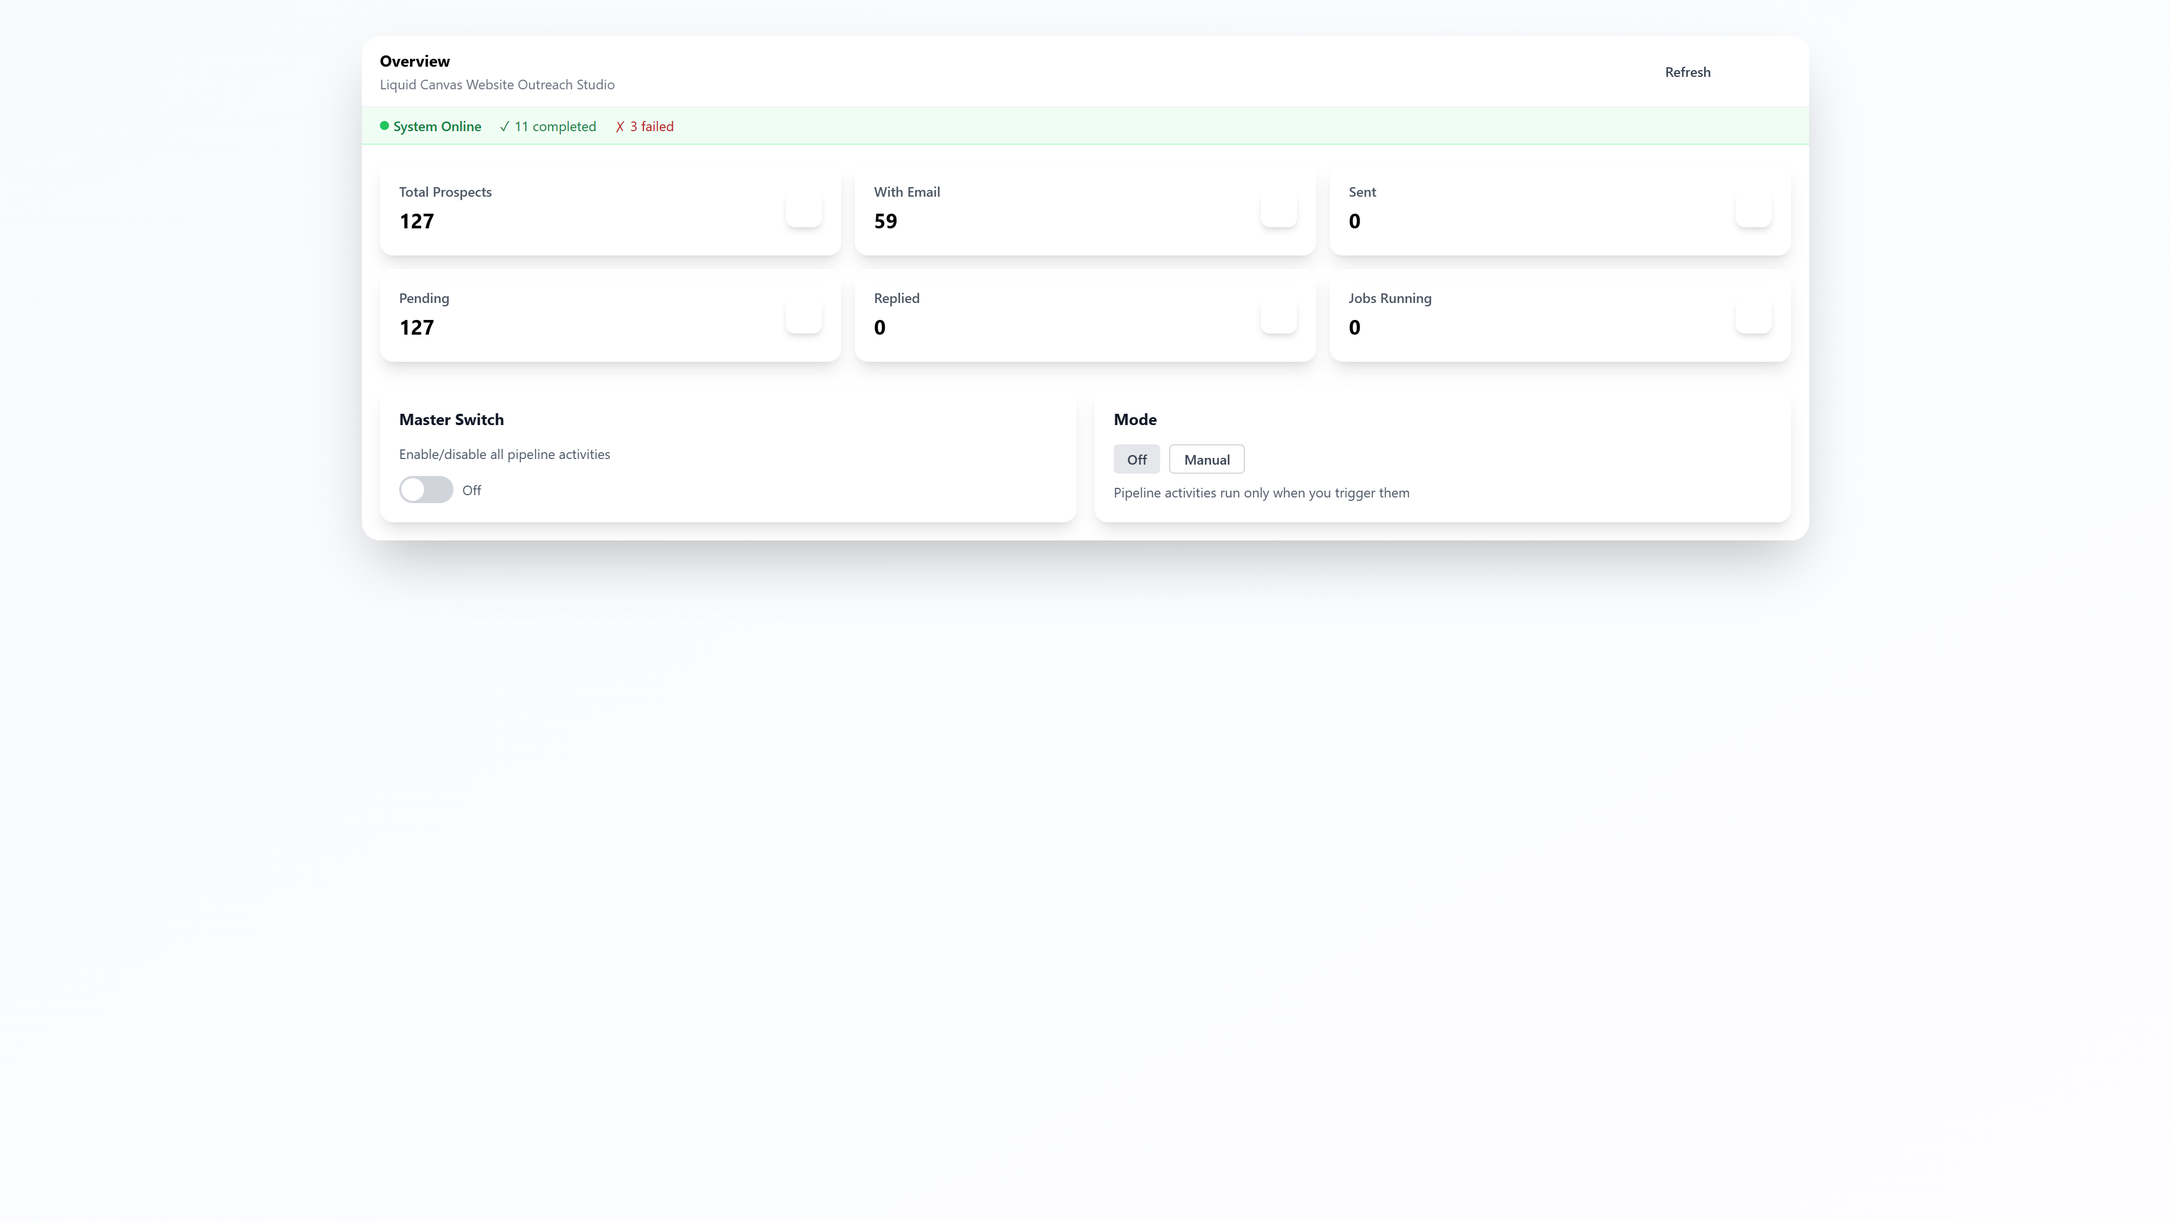
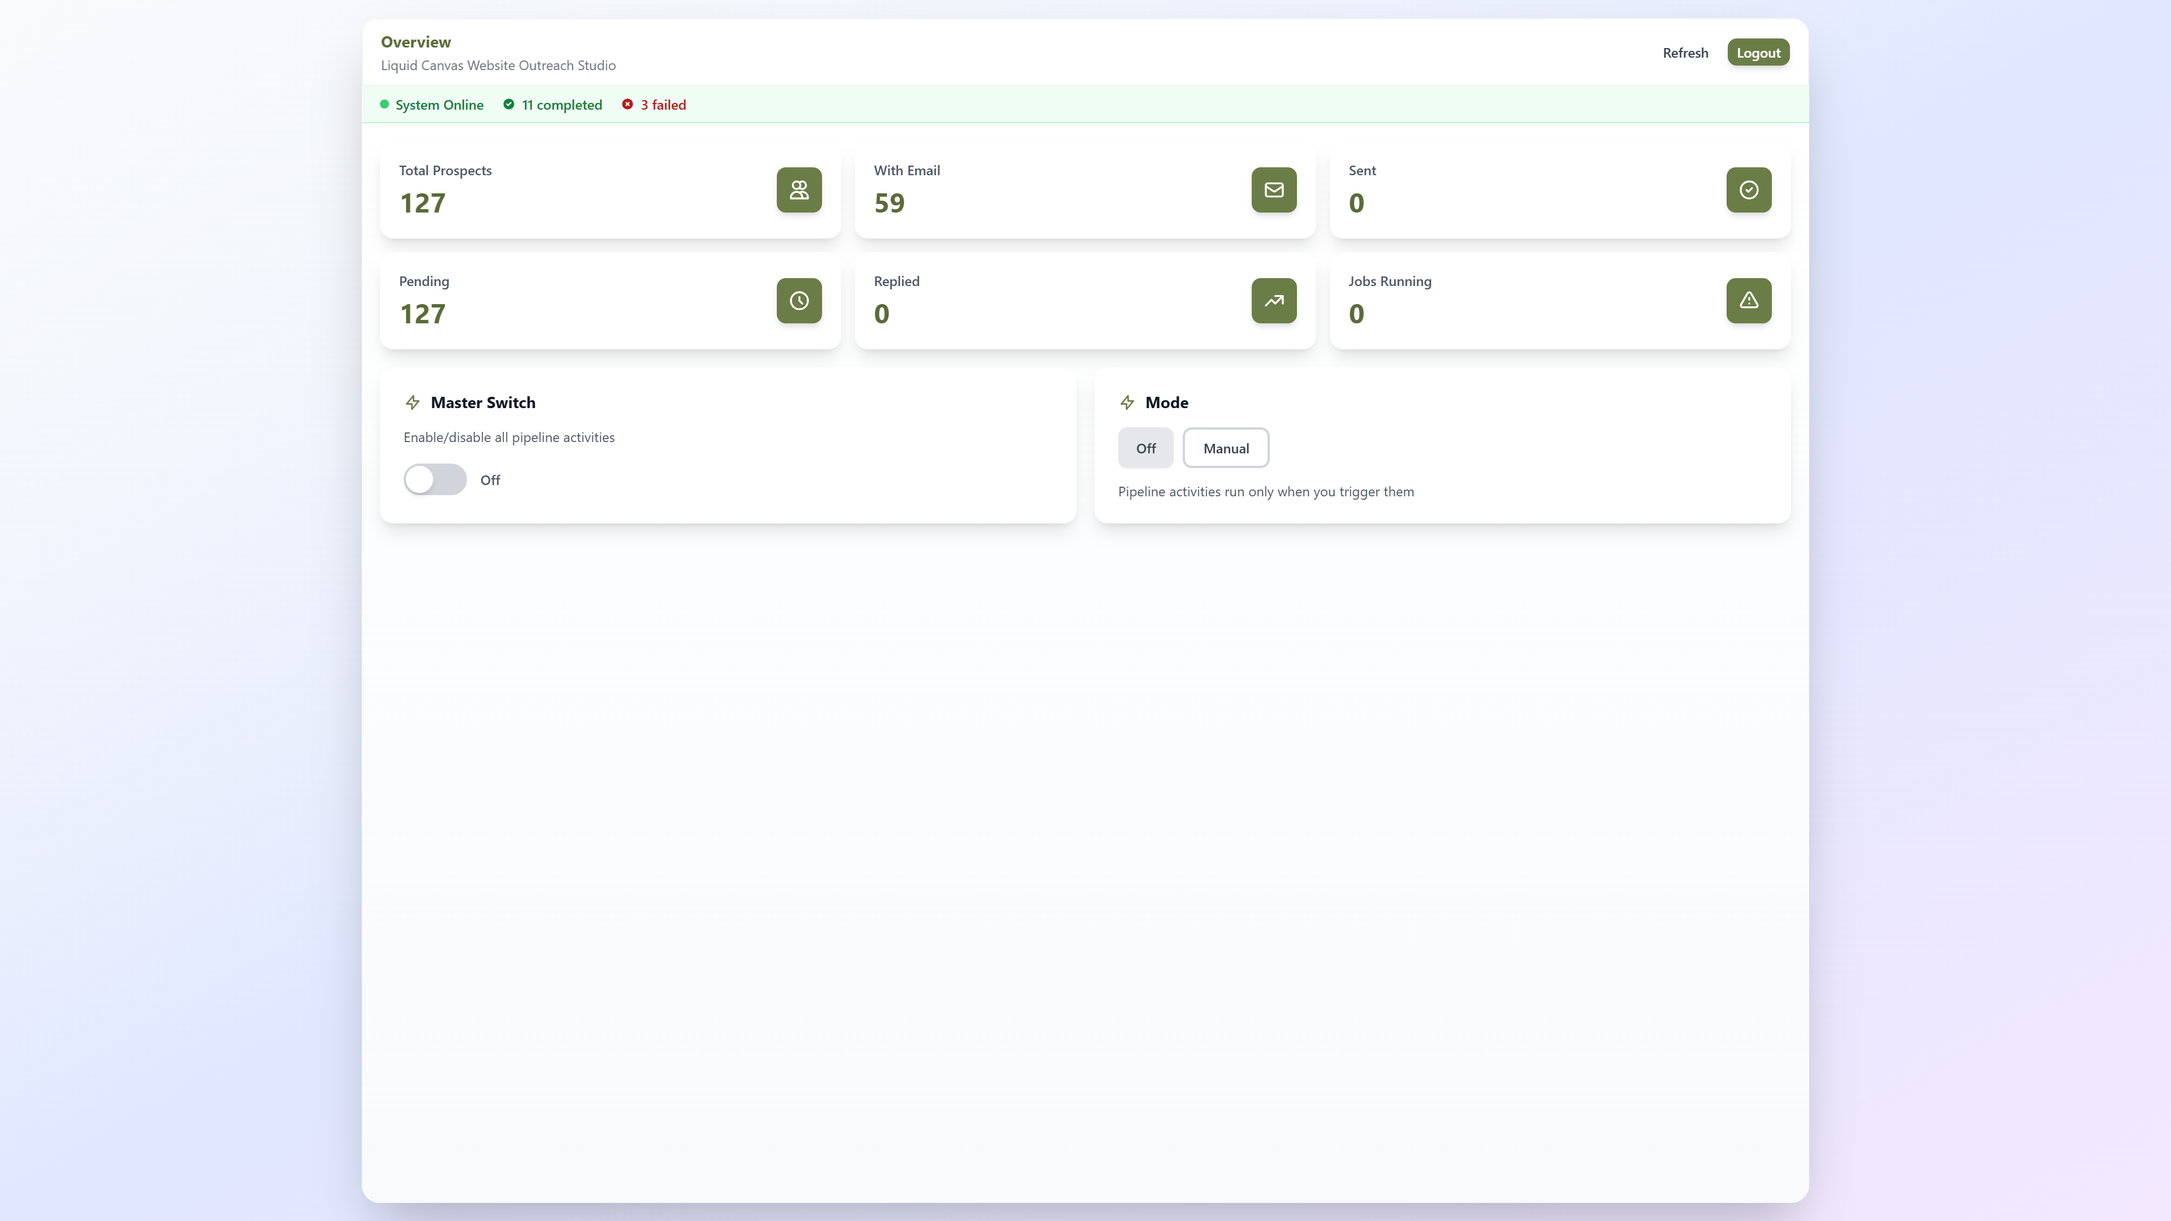
Redesign dashboard preview with proper styling and fit for landing page

diff --git a/frontend/public/dashboard-preview.html b/frontend/public/dashboard-preview.html
@@ -12,122 +12,153 @@
         }
         .animate-fade-in { animation: fade-in 0.5s ease-out; }
         .glass {
-            background: rgba(255, 255, 255, 0.7);
-            backdrop-filter: blur(10px);
-            -webkit-backdrop-filter: blur(10px);
+            background: rgba(255, 255, 255, 0.85);
+            backdrop-filter: blur(12px);
+            -webkit-backdrop-filter: blur(12px);
+            border: 1px solid rgba(255, 255, 255, 0.3);
+        }
+        .bg-gradient-olive {
+            background: linear-gradient(135deg, #6b7d47 0%, #5a6b3a 100%);
+        }
+        .text-olive-700 {
+            color: #5a6b3a;
+        }
+        .text-olive-600 {
+            color: #6b7d47;
+        }
+        .bg-olive-50 {
+            background-color: #f5f7f0;
+        }
+        .bg-olive-600 {
+            background-color: #6b7d47;
+        }
+        .bg-olive-700 {
+            background-color: #5a6b3a;
+        }
+        body {
+            margin: 0;
+            padding: 0;
+            background: linear-gradient(to bottom right, #f8fafc, #e0e7ff, #f3e8ff);
+            font-family: -apple-system, BlinkMacSystemFont, 'Segoe UI', Roboto, 'Helvetica Neue', Arial, sans-serif;
         }
     </style>
 </head>
-<body class="bg-gradient-to-br from-slate-50 via-blue-50/30 to-purple-50/20">
-    <div class="min-h-screen p-8">
-        <div class="max-w-7xl mx-auto bg-white rounded-2xl shadow-2xl overflow-hidden">
+<body>
+    <div class="w-full h-screen p-4 box-border" style="background: linear-gradient(to bottom right, #f8fafc, #e0e7ff30, #f3e8ff20);">
+        <div class="max-w-7xl mx-auto h-full bg-white rounded-2xl shadow-2xl overflow-hidden flex flex-col">
             <!-- Header -->
-            <header class="glass border-b border-gray-200/50 px-4 py-3 flex items-center justify-between">
+            <header class="glass border-b border-gray-200/50 px-4 py-2.5 flex items-center justify-between flex-shrink-0">
                 <div>
                     <h2 class="text-sm font-bold text-olive-700">Overview</h2>
                     <p class="text-xs text-gray-500 mt-0.5">Liquid Canvas Website Outreach Studio</p>
                 </div>
                 <div class="flex items-center space-x-2">
-                    <button class="px-2 py-1 glass text-gray-700 rounded-lg text-xs font-medium">Refresh</button>
-                    <button class="px-2 py-1 bg-olive-600 text-white rounded-lg text-xs font-medium">Logout</button>
+                    <button class="px-2 py-1 glass hover:bg-white/90 text-gray-700 rounded-lg text-xs font-medium transition-colors">Refresh</button>
+                    <button class="px-2 py-1 bg-olive-600 hover:bg-olive-700 text-white rounded-lg text-xs font-medium shadow-md transition-colors">Logout</button>
                 </div>
             </header>
 
-            <!-- System Status -->
-            <div class="px-4 py-2 bg-green-50 border-b border-green-200">
+            <!-- System Status Bar -->
+            <div class="px-4 py-2 bg-green-50 border-b border-green-200 flex-shrink-0">
                 <div class="flex items-center space-x-4 text-xs">
-                    <span class="flex items-center space-x-1">
-                        <span class="w-2 h-2 bg-green-500 rounded-full"></span>
-                        <span class="text-green-700 font-medium">System Online</span>
+                    <span class="flex items-center space-x-1.5">
+                        <span class="w-2 h-2 bg-green-500 rounded-full animate-pulse"></span>
+                        <span class="text-green-700 font-semibold">System Online</span>
                     </span>
-                    <span class="flex items-center space-x-1 text-green-700">
-                        <span>✓</span>
-                        <span>11 completed</span>
+                    <span class="flex items-center space-x-1.5 text-green-700">
+                        <svg class="w-3 h-3" fill="currentColor" viewBox="0 0 20 20"><path fill-rule="evenodd" d="M10 18a8 8 0 100-16 8 8 0 000 16zm3.707-9.293a1 1 0 00-1.414-1.414L9 10.586 7.707 9.293a1 1 0 00-1.414 1.414l2 2a1 1 0 001.414 0l4-4z" clip-rule="evenodd"/></svg>
+                        <span class="font-medium">11 completed</span>
                     </span>
-                    <span class="flex items-center space-x-1 text-red-700">
-                        <span>✗</span>
-                        <span>3 failed</span>
+                    <span class="flex items-center space-x-1.5 text-red-700">
+                        <svg class="w-3 h-3" fill="currentColor" viewBox="0 0 20 20"><path fill-rule="evenodd" d="M10 18a8 8 0 100-16 8 8 0 000 16zM8.707 7.293a1 1 0 00-1.414 1.414L8.586 10l-1.293 1.293a1 1 0 101.414 1.414L10 11.414l1.293 1.293a1 1 0 001.414-1.414L11.414 10l1.293-1.293a1 1 0 00-1.414-1.414L10 8.586 8.707 7.293z" clip-rule="evenodd"/></svg>
+                        <span class="font-medium">3 failed</span>
                     </span>
                 </div>
             </div>
 
             <!-- Main Content -->
-            <main class="p-4">
-                <!-- Stats Cards -->
-                <div class="grid grid-cols-3 gap-3 mb-6">
-                    <div class="glass rounded-xl shadow-lg border border-white/20 p-4">
+            <main class="flex-1 p-4 overflow-y-auto" style="background: linear-gradient(to bottom, #ffffff, #f8fafc);">
+                <!-- Stats Cards Grid -->
+                <div class="grid grid-cols-3 gap-3 mb-4">
+                    <!-- Total Prospects -->
+                    <div class="glass rounded-xl shadow-lg border border-white/30 p-4 hover:shadow-xl transition-all duration-300">
                         <div class="flex items-center justify-between">
                             <div>
                                 <p class="text-xs font-medium text-gray-600 mb-1">Total Prospects</p>
-                                <p class="text-lg font-bold text-olive-700">127</p>
+                                <p class="text-2xl font-bold text-olive-700">127</p>
                             </div>
-                            <div class="p-2 rounded-lg shadow-md bg-olive-600">
-                                <svg class="w-4 h-4 text-white" fill="none" stroke="currentColor" viewBox="0 0 24 24">
+                            <div class="p-2.5 rounded-lg shadow-md bg-olive-600">
+                                <svg class="w-5 h-5 text-white" fill="none" stroke="currentColor" viewBox="0 0 24 24">
                                     <path stroke-linecap="round" stroke-linejoin="round" stroke-width="2" d="M12 4.354a4 4 0 110 5.292M15 21H3v-1a6 6 0 0112 0v1zm0 0h6v-1a6 6 0 00-9-5.197M13 7a4 4 0 11-8 0 4 4 0 018 0z"></path>
                                 </svg>
                             </div>
                         </div>
                     </div>
-                    <div class="glass rounded-xl shadow-lg border border-white/20 p-4">
+                    <!-- With Email -->
+                    <div class="glass rounded-xl shadow-lg border border-white/30 p-4 hover:shadow-xl transition-all duration-300">
                         <div class="flex items-center justify-between">
                             <div>
                                 <p class="text-xs font-medium text-gray-600 mb-1">With Email</p>
-                                <p class="text-lg font-bold text-olive-700">59</p>
+                                <p class="text-2xl font-bold text-olive-700">59</p>
                             </div>
-                            <div class="p-2 rounded-lg shadow-md bg-olive-600">
-                                <svg class="w-4 h-4 text-white" fill="none" stroke="currentColor" viewBox="0 0 24 24">
+                            <div class="p-2.5 rounded-lg shadow-md bg-olive-600">
+                                <svg class="w-5 h-5 text-white" fill="none" stroke="currentColor" viewBox="0 0 24 24">
                                     <path stroke-linecap="round" stroke-linejoin="round" stroke-width="2" d="M3 8l7.89 5.26a2 2 0 002.22 0L21 8M5 19h14a2 2 0 002-2V7a2 2 0 00-2-2H5a2 2 0 00-2 2v10a2 2 0 002 2z"></path>
                                 </svg>
                             </div>
                         </div>
                     </div>
-                    <div class="glass rounded-xl shadow-lg border border-white/20 p-4">
+                    <!-- Sent -->
+                    <div class="glass rounded-xl shadow-lg border border-white/30 p-4 hover:shadow-xl transition-all duration-300">
                         <div class="flex items-center justify-between">
                             <div>
                                 <p class="text-xs font-medium text-gray-600 mb-1">Sent</p>
-                                <p class="text-lg font-bold text-olive-700">0</p>
+                                <p class="text-2xl font-bold text-olive-700">0</p>
                             </div>
-                            <div class="p-2 rounded-lg shadow-md bg-olive-600">
-                                <svg class="w-4 h-4 text-white" fill="none" stroke="currentColor" viewBox="0 0 24 24">
+                            <div class="p-2.5 rounded-lg shadow-md bg-olive-600">
+                                <svg class="w-5 h-5 text-white" fill="none" stroke="currentColor" viewBox="0 0 24 24">
                                     <path stroke-linecap="round" stroke-linejoin="round" stroke-width="2" d="M9 12l2 2 4-4m6 2a9 9 0 11-18 0 9 9 0 0118 0z"></path>
                                 </svg>
                             </div>
                         </div>
                     </div>
-                    <div class="glass rounded-xl shadow-lg border border-white/20 p-4">
+                    <!-- Pending -->
+                    <div class="glass rounded-xl shadow-lg border border-white/30 p-4 hover:shadow-xl transition-all duration-300">
                         <div class="flex items-center justify-between">
                             <div>
                                 <p class="text-xs font-medium text-gray-600 mb-1">Pending</p>
-                                <p class="text-lg font-bold text-olive-700">127</p>
+                                <p class="text-2xl font-bold text-olive-700">127</p>
                             </div>
-                            <div class="p-2 rounded-lg shadow-md bg-olive-600">
-                                <svg class="w-4 h-4 text-white" fill="none" stroke="currentColor" viewBox="0 0 24 24">
+                            <div class="p-2.5 rounded-lg shadow-md bg-olive-600">
+                                <svg class="w-5 h-5 text-white" fill="none" stroke="currentColor" viewBox="0 0 24 24">
                                     <path stroke-linecap="round" stroke-linejoin="round" stroke-width="2" d="M12 8v4l3 3m6-3a9 9 0 11-18 0 9 9 0 0118 0z"></path>
                                 </svg>
                             </div>
                         </div>
                     </div>
-                    <div class="glass rounded-xl shadow-lg border border-white/20 p-4">
+                    <!-- Replied -->
+                    <div class="glass rounded-xl shadow-lg border border-white/30 p-4 hover:shadow-xl transition-all duration-300">
                         <div class="flex items-center justify-between">
                             <div>
                                 <p class="text-xs font-medium text-gray-600 mb-1">Replied</p>
-                                <p class="text-lg font-bold text-olive-700">0</p>
+                                <p class="text-2xl font-bold text-olive-700">0</p>
                             </div>
-                            <div class="p-2 rounded-lg shadow-md bg-olive-600">
-                                <svg class="w-4 h-4 text-white" fill="none" stroke="currentColor" viewBox="0 0 24 24">
+                            <div class="p-2.5 rounded-lg shadow-md bg-olive-600">
+                                <svg class="w-5 h-5 text-white" fill="none" stroke="currentColor" viewBox="0 0 24 24">
                                     <path stroke-linecap="round" stroke-linejoin="round" stroke-width="2" d="M13 7h8m0 0v8m0-8l-8 8-4-4-6 6"></path>
                                 </svg>
                             </div>
                         </div>
                     </div>
-                    <div class="glass rounded-xl shadow-lg border border-white/20 p-4">
+                    <!-- Jobs Running -->
+                    <div class="glass rounded-xl shadow-lg border border-white/30 p-4 hover:shadow-xl transition-all duration-300">
                         <div class="flex items-center justify-between">
                             <div>
                                 <p class="text-xs font-medium text-gray-600 mb-1">Jobs Running</p>
-                                <p class="text-lg font-bold text-olive-700">0</p>
+                                <p class="text-2xl font-bold text-olive-700">0</p>
                             </div>
-                            <div class="p-2 rounded-lg shadow-md bg-olive-600">
-                                <svg class="w-4 h-4 text-white" fill="none" stroke="currentColor" viewBox="0 0 24 24">
+                            <div class="p-2.5 rounded-lg shadow-md bg-olive-600">
+                                <svg class="w-5 h-5 text-white" fill="none" stroke="currentColor" viewBox="0 0 24 24">
                                     <path stroke-linecap="round" stroke-linejoin="round" stroke-width="2" d="M12 9v2m0 4h.01m-6.938 4h13.856c1.54 0 2.502-1.667 1.732-3L13.732 4c-.77-1.333-2.694-1.333-3.464 0L3.34 16c-.77 1.333.192 3 1.732 3z"></path>
                                 </svg>
                             </div>
@@ -137,21 +168,33 @@
 
                 <!-- Control Sections -->
                 <div class="grid grid-cols-2 gap-4">
-                    <div class="glass rounded-xl shadow-lg border border-white/20 p-4">
-                        <h3 class="text-sm font-bold text-gray-900 mb-3">Master Switch</h3>
-                        <p class="text-xs text-gray-600 mb-3">Enable/disable all pipeline activities</p>
-                        <div class="flex items-center space-x-2">
-                            <div class="w-12 h-6 bg-gray-300 rounded-full relative">
-                                <div class="w-5 h-5 bg-white rounded-full absolute left-0.5 top-0.5"></div>
+                    <!-- Master Switch -->
+                    <div class="glass rounded-xl shadow-lg border border-white/30 p-5">
+                        <div class="flex items-center space-x-2 mb-3">
+                            <svg class="w-4 h-4 text-olive-600" fill="none" stroke="currentColor" viewBox="0 0 24 24">
+                                <path stroke-linecap="round" stroke-linejoin="round" stroke-width="2" d="M13 10V3L4 14h7v7l9-11h-7z"></path>
+                            </svg>
+                            <h3 class="text-sm font-bold text-gray-900">Master Switch</h3>
+                        </div>
+                        <p class="text-xs text-gray-600 mb-4">Enable/disable all pipeline activities</p>
+                        <div class="flex items-center space-x-3">
+                            <div class="w-14 h-7 bg-gray-300 rounded-full relative cursor-pointer transition-colors">
+                                <div class="w-6 h-6 bg-white rounded-full absolute left-0.5 top-0.5 shadow-md transition-transform"></div>
                             </div>
-                            <span class="text-xs text-gray-600">Off</span>
+                            <span class="text-xs font-medium text-gray-600">Off</span>
                         </div>
                     </div>
-                    <div class="glass rounded-xl shadow-lg border border-white/20 p-4">
-                        <h3 class="text-sm font-bold text-gray-900 mb-3">Mode</h3>
-                        <div class="flex space-x-2 mb-2">
-                            <button class="px-3 py-1 bg-gray-200 text-gray-700 rounded text-xs font-medium">Off</button>
-                            <button class="px-3 py-1 bg-white border border-gray-300 text-gray-700 rounded text-xs font-medium">Manual</button>
+                    <!-- Mode -->
+                    <div class="glass rounded-xl shadow-lg border border-white/30 p-5">
+                        <div class="flex items-center space-x-2 mb-3">
+                            <svg class="w-4 h-4 text-olive-600" fill="none" stroke="currentColor" viewBox="0 0 24 24">
+                                <path stroke-linecap="round" stroke-linejoin="round" stroke-width="2" d="M13 10V3L4 14h7v7l9-11h-7z"></path>
+                            </svg>
+                            <h3 class="text-sm font-bold text-gray-900">Mode</h3>
+                        </div>
+                        <div class="flex space-x-2 mb-3">
+                            <button class="px-4 py-2 bg-gray-200 text-gray-700 rounded-lg text-xs font-semibold shadow-sm">Off</button>
+                            <button class="px-4 py-2 bg-white border-2 border-gray-300 text-gray-700 rounded-lg text-xs font-semibold hover:border-olive-500 transition-colors">Manual</button>
                         </div>
                         <p class="text-xs text-gray-600">Pipeline activities run only when you trigger them</p>
                     </div>
@@ -161,4 +204,3 @@
     </div>
 </body>
 </html>
-

diff --git a/frontend/scripts/capture-dashboard.js b/frontend/scripts/capture-dashboard.js
@@ -22,11 +22,19 @@ async function captureDashboard() {
     
     const page = await browser.newPage();
     
-    // Set viewport to a standard size
+    // Set viewport to match landing page aspect ratio (16:9)
     await page.setViewport({
       width: 1920,
       height: 1080,
       deviceScaleFactor: 2 // Higher quality
+    });
+    
+    // Set body to fill viewport
+    await page.evaluate(() => {
+      document.body.style.margin = '0';
+      document.body.style.padding = '0';
+      document.documentElement.style.height = '100%';
+      document.body.style.height = '100%';
     });
     
     console.log('🌐 Loading dashboard preview...');
